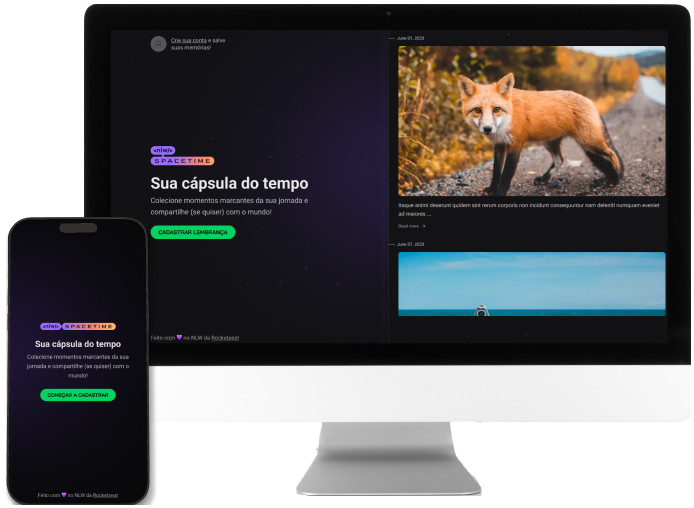
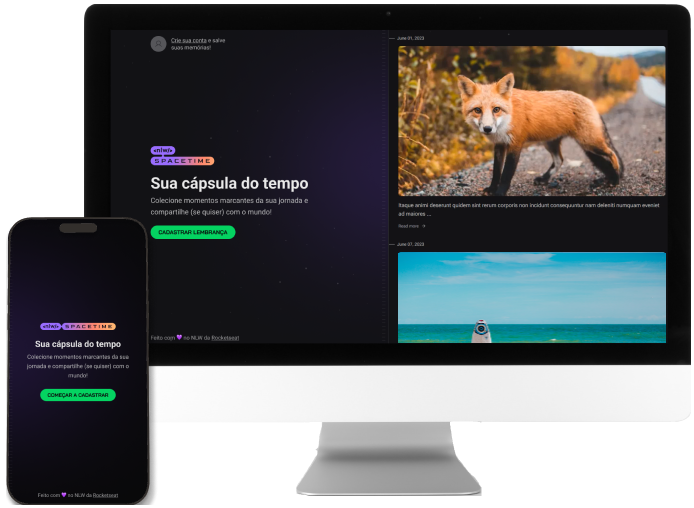
1 - Changing lorem text by the real one 2 - Fixing the spacetime image 3 - Removing br tags

Changed region(s): [[0.5749, 0.5906, 0.9683, 0.6791], [0.5749, 0.4724, 0.9683, 0.561]]

diff --git a/src/app/components/projects/projects.tsx b/src/app/components/projects/projects.tsx
@@ -9,7 +9,7 @@ const Projects = () => {
       'Experience seamless online shopping with our \n captivating e-commerce clothing platform.',
     imagePath: MonitorCrown,
     description:
-      'Description: Lorem ipsum dolor sit, amet consectetur adipisicing elit. Perferendis consequatur quos veritatis quia saepe modi, harum rerum vero nesciunt assumenda itaque, ipsum accusantium possimus ex nulla sint. Inventore, facilis tenetur. Techs Used: Lorem ipsum dolor sit amet, consectetur adipiscing elit. Vivamus in justo id quam laoreet vulputate vitae sed diam.',
+      "Published on the Netlify server, Crown Clothing is an online clothing store that allows users to browse the shop, add products to their cart, and immerse themselves in a virtual shopping experience. Although a fictional project, this e-commerce serves as a practical example of my dedication to honing my skills as a full-stack developer and creating engaging web applications. \n\n By utilizing React, Typescript and Styled Components, I crafted a modern and responsive interface that provides an immersive shopping experience for users. Additionally, the integration of React-Redux enabled the creation of a global state, ensuring smooth and interactive navigation. \n\n Security and reliability are ensured through the powerful Google solution, Firebase Authentication. Furthermore, with Firebase Firestore, I implemented full data storage functionality, enabling real-time queries of the store's categories and product information.",
     githubLink: 'https://github.com/lucasheck/crown-clothing',
     liveDemoLink: 'https://master--boisterous-pika-b91b7d.netlify.app/',
   }
@@ -19,7 +19,7 @@ const Projects = () => {
       'Collect memorable moments from your journey \n and share (if you want) with the world!',
     imagePath: MonitorSpacetime,
     description:
-      'Description: Lorem ipsum dolor sit, amet consectetur adipisicing elit. Perferendis consequatur quos veritatis quia saepe modi, harum rerum vero nesciunt assumenda itaque, ipsum accusantium possimus ex nulla sint. Inventore, facilis tenetur. Techs Used: Lorem ipsum dolor sit amet, consectetur adipiscing elit. Vivamus in justo id quam laoreet vulputate vitae sed diam.',
+      'The Spacetime project, developed with the aim of collecting memories and special moments, allows users to store photos or videos, along with the date of the memory and a description. \n\n With a responsive and bilingual interface, the frontend was built using Next.js, React, TypeScript, and Tailwind CSS. The backend, created with Node.js and TypeScript, uses the Prisma database and APIs developed with Axios and Fastify. Additionally, a mobile app was developed using Expo, React Native, Tailwind CSS, and TypeScript, providing a complete experience for users, allowing access to memories on both the web and mobile devices. \n\n Although the project has not been publicly published, a video demonstrating its features is available through the link provided in this card. I developed the Spacetime project to enhance my full-stack skills and create a versatile solution for storing and sharing cherished memories.',
     githubLink: 'https://github.com/lucasheck/spacetime_web',
     liveDemoLink:
       'https://www.linkedin.com/posts/lucas-tomaz-heck_nlw-rocketseat-neverstoplearning-activity-7073977255110033409-xA4k',

diff --git a/src/app/components/about/about.tsx b/src/app/components/about/about.tsx
@@ -2,6 +2,9 @@ import Image from 'next/image'
 import profilePhoto from '../../assets/about_me_photo.jpg'
 
 const About = () => {
+  const aboutDescription =
+    'Hello! My name is Lucas, an enthusiast of life and passionate about overcoming challenges. I am Brazilian and part of a lovely family, composed of my wife, a son and a dog. Together, we share the dream of experiencing new adventures and immersing ourselves in diverse cultures, nurturing our thirst for knowledge and personal and professional growth. \n\n I hold a degree in Computer Science from the Federal University of Mato Grosso do Sul (UFMS) and worked as a developer for 7 years, gaining valuable skills and knowledge in this fascinating field. Later, I founded my own document management company, which has become a reference in my city. \n\n Currently, with my company established and thriving in the local market, I realized that my heart has always been connected to developing innovative technological solutions. This passion led me back to studies, focusing on learning React, NodeJS, and React-Native programming languages, as well as other modern technologies. Simultaneously, I am enhancing my English proficiency to pursue international opportunities and new challenges. I believe this combination of technical and linguistic skills will open new paths and possibilities in my career as a developer. \n\n Driven by challenges and passionate about learning, I am always seeking personal and professional growth. I am eager to explore what the future holds and embrace new opportunities that lie ahead.'
+
   return (
     <section id="about" className="flex scroll-mt-16 justify-center py-24">
       <div className="mx-[10%] flex w-full flex-col items-center justify-evenly lg:flex-row lg:gap-12">
@@ -16,21 +19,8 @@ const About = () => {
           <h2 className="pt-10 text-5xl after:absolute after:z-30 after:h-1 after:w-7 after:-translate-x-32 after:translate-y-20 after:rounded-xl after:bg-accent_400 after:content-[''] lg:pt-0">
             About me
           </h2>
-          <p className="text-justify">
-            Lorem ipsum dolor sit, amet consectetur adipisicing elit.
-            Perferendis consequatur quos veritatis quia saepe modi, harum rerum
-            vero nesciunt assumenda itaque, ipsum accusantium possimus ex nulla
-            sint. Inventore, facilis tenetur. Numquam incidunt, sed odit fuga
-            nostrum dolorem eum, nam, quia laudantium perspiciatis in eveniet
-            laborum quas. Temporibus a molestiae necessitatibus sapiente
-            voluptas aut obcaecati quaerat at, omnis, facere incidunt similique!
-            <br />
-            <br />
-            Repudiandae vitae adipisci laudantium dicta vel sint dolorem
-            provident totam repellendus omnis pariatur, exercitationem,
-            cupiditate maiores magnam praesentium facere veritatis quas
-            recusandae esse reiciendis commodi? Vel ea libero officia
-            architecto!
+          <p className="whitespace-pre-line text-justify ">
+            {aboutDescription}
           </p>
         </div>
       </div>

diff --git a/src/app/components/hero/hero.tsx b/src/app/components/hero/hero.tsx
@@ -49,9 +49,10 @@ const Hero = () => {
             />
           </div>
         </div>
-        <p className="text-center text-base md:text-right">
-          I have 34 years old, I&#039;m a developer with 7 years of experience
-          <br /> working as fullstack developer
+        <p className="whitespace-pre-line text-center text-base md:text-right">
+          {
+            "I'm 34 years old, and I have 7 years of experience \n working as a fullstack developer."
+          }
         </p>
       </div>
     </section>

diff --git a/src/app/components/projects/card.tsx b/src/app/components/projects/card.tsx
@@ -35,7 +35,7 @@ const Card = ({
         />
 
         <div className="flex flex-1 flex-col items-center justify-between gap-5 lg:mt-5">
-          <p className="w-11/12 text-justify text-sm md:text-base">
+          <p className="w-11/12 whitespace-pre-line text-justify text-sm md:text-base">
             {description}
           </p>
 

diff --git a/README.md b/README.md
@@ -57,9 +57,9 @@ TO DO:
 -   Create a component to replace the form and to notify when the message was sent successfully
 -   Send email - OK
 -   Show some notification after send email (modal maybe?) - OK
--   Swap the lorem ipsum texts by the correct one
+-   Swap the lorem ipsum texts by the correct one - OK
 -   Link to resume pdf
--   Remove <br> tags
+-   Remove <br> tags - OK
 -   Improve preview images on project section
 -   Decrease assets file sizes
 -   Break the page into smaller components
